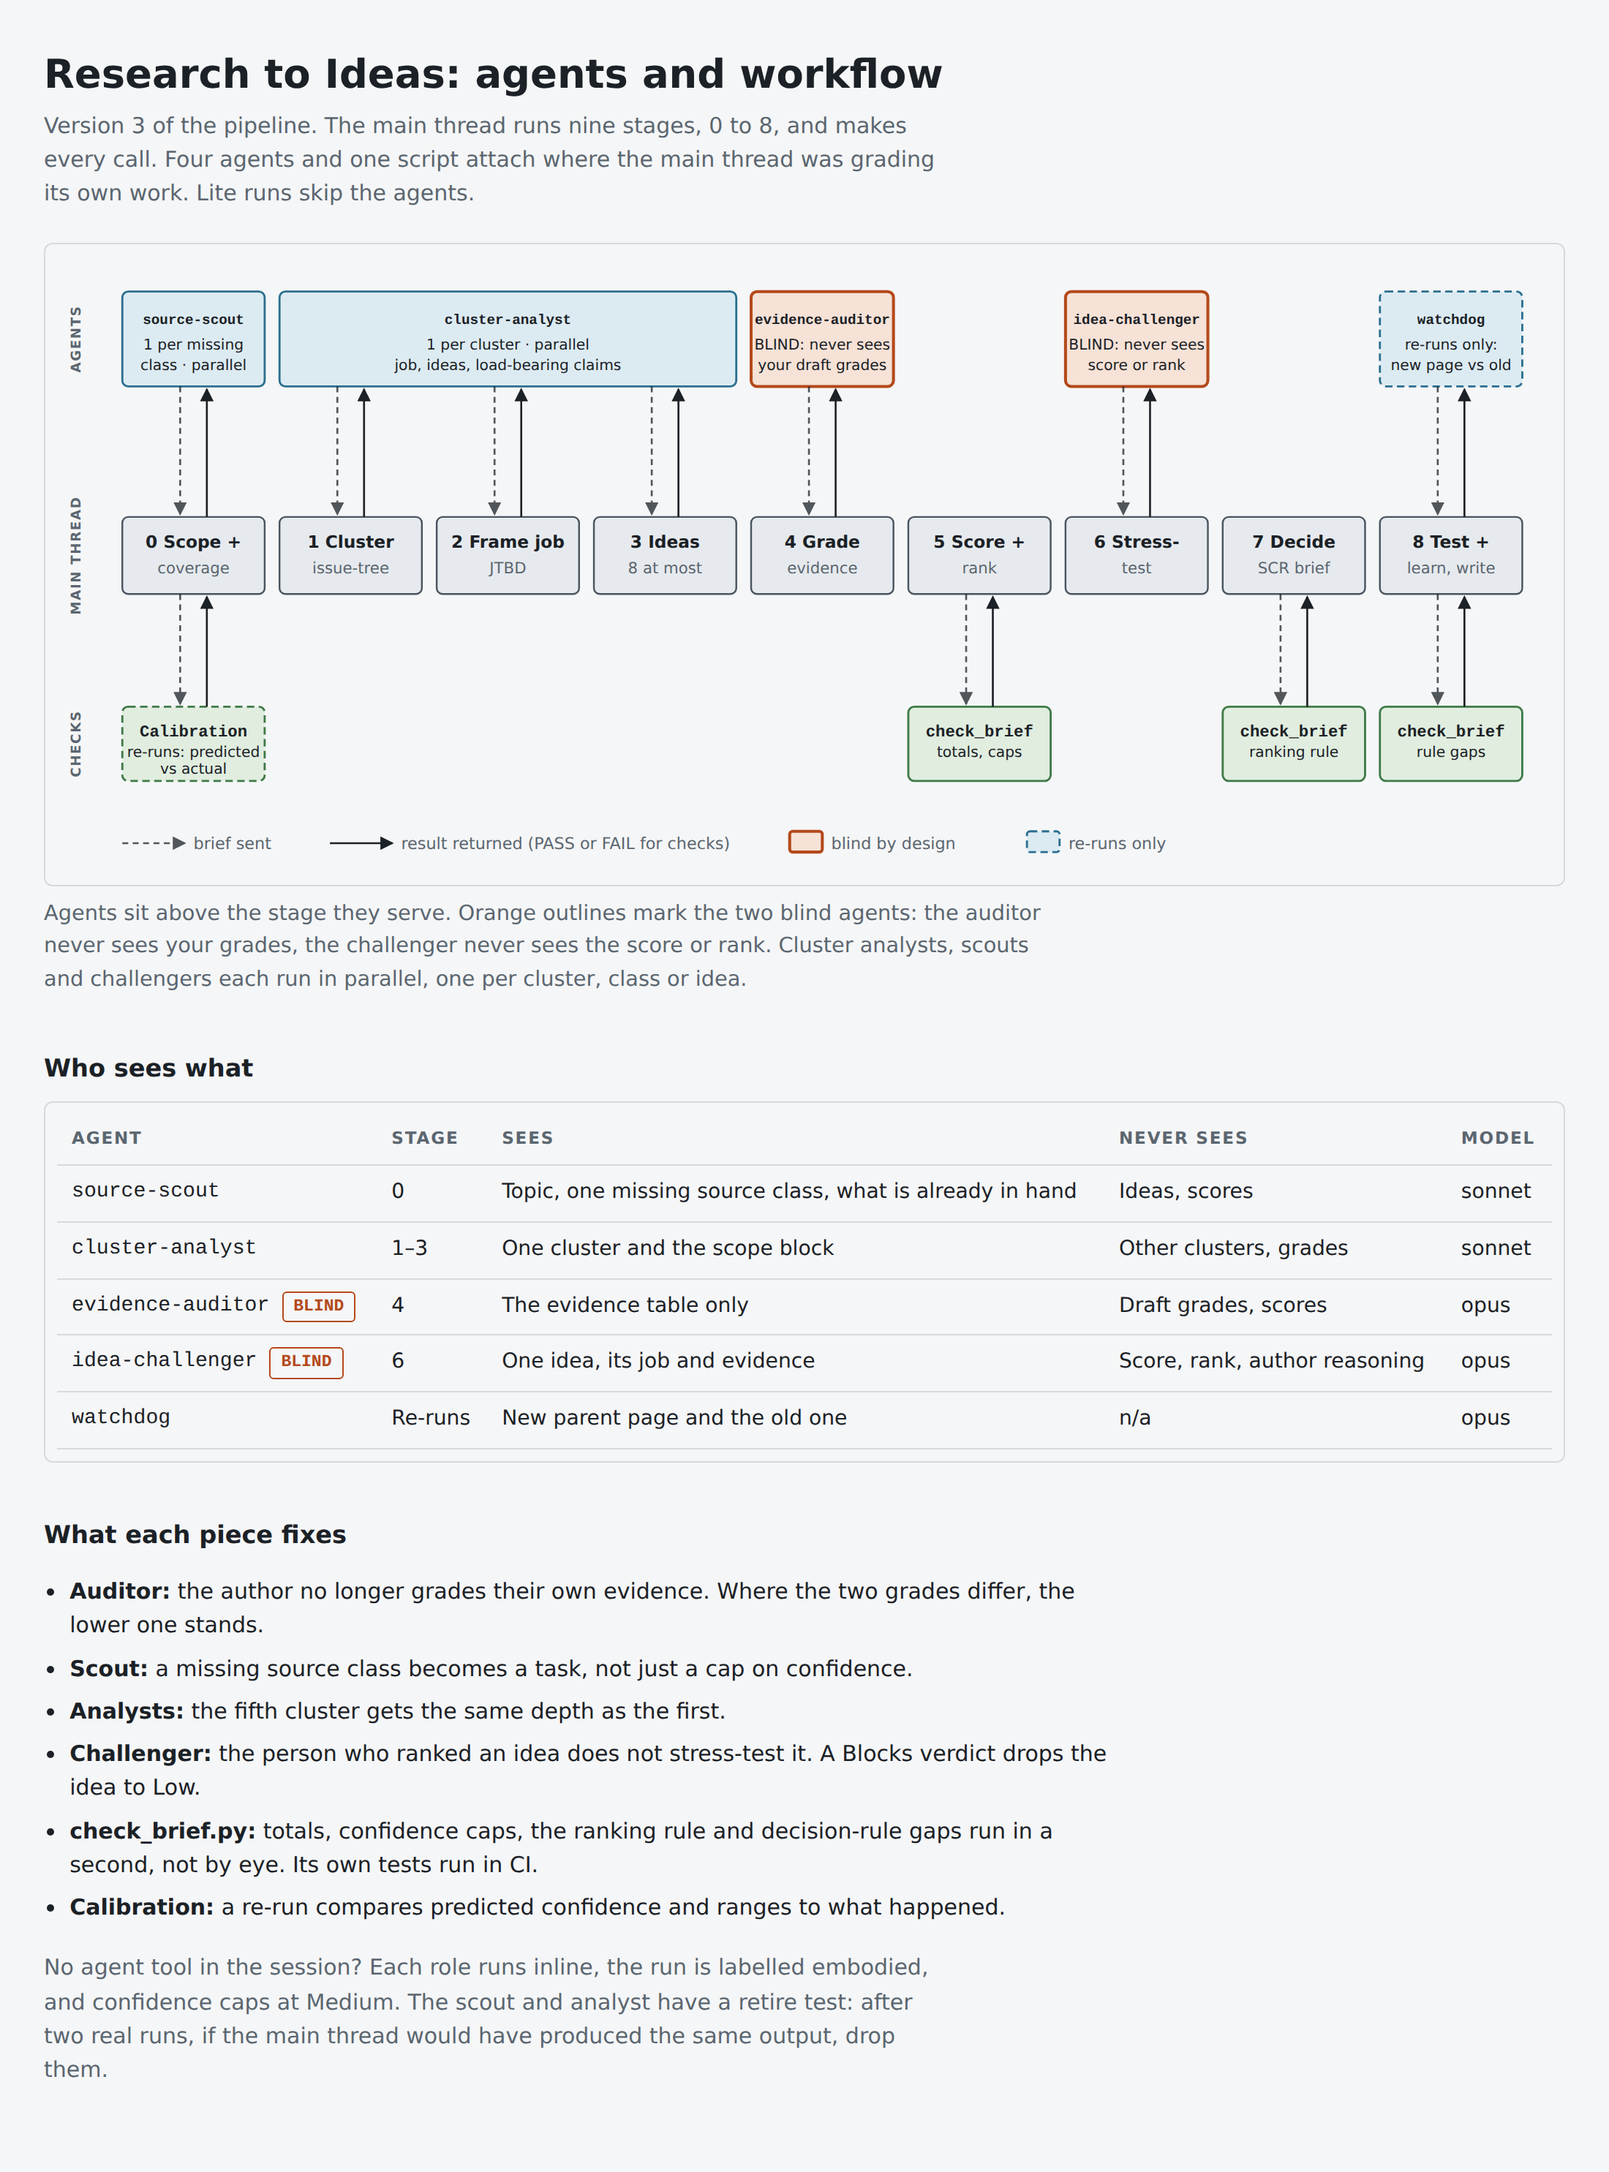
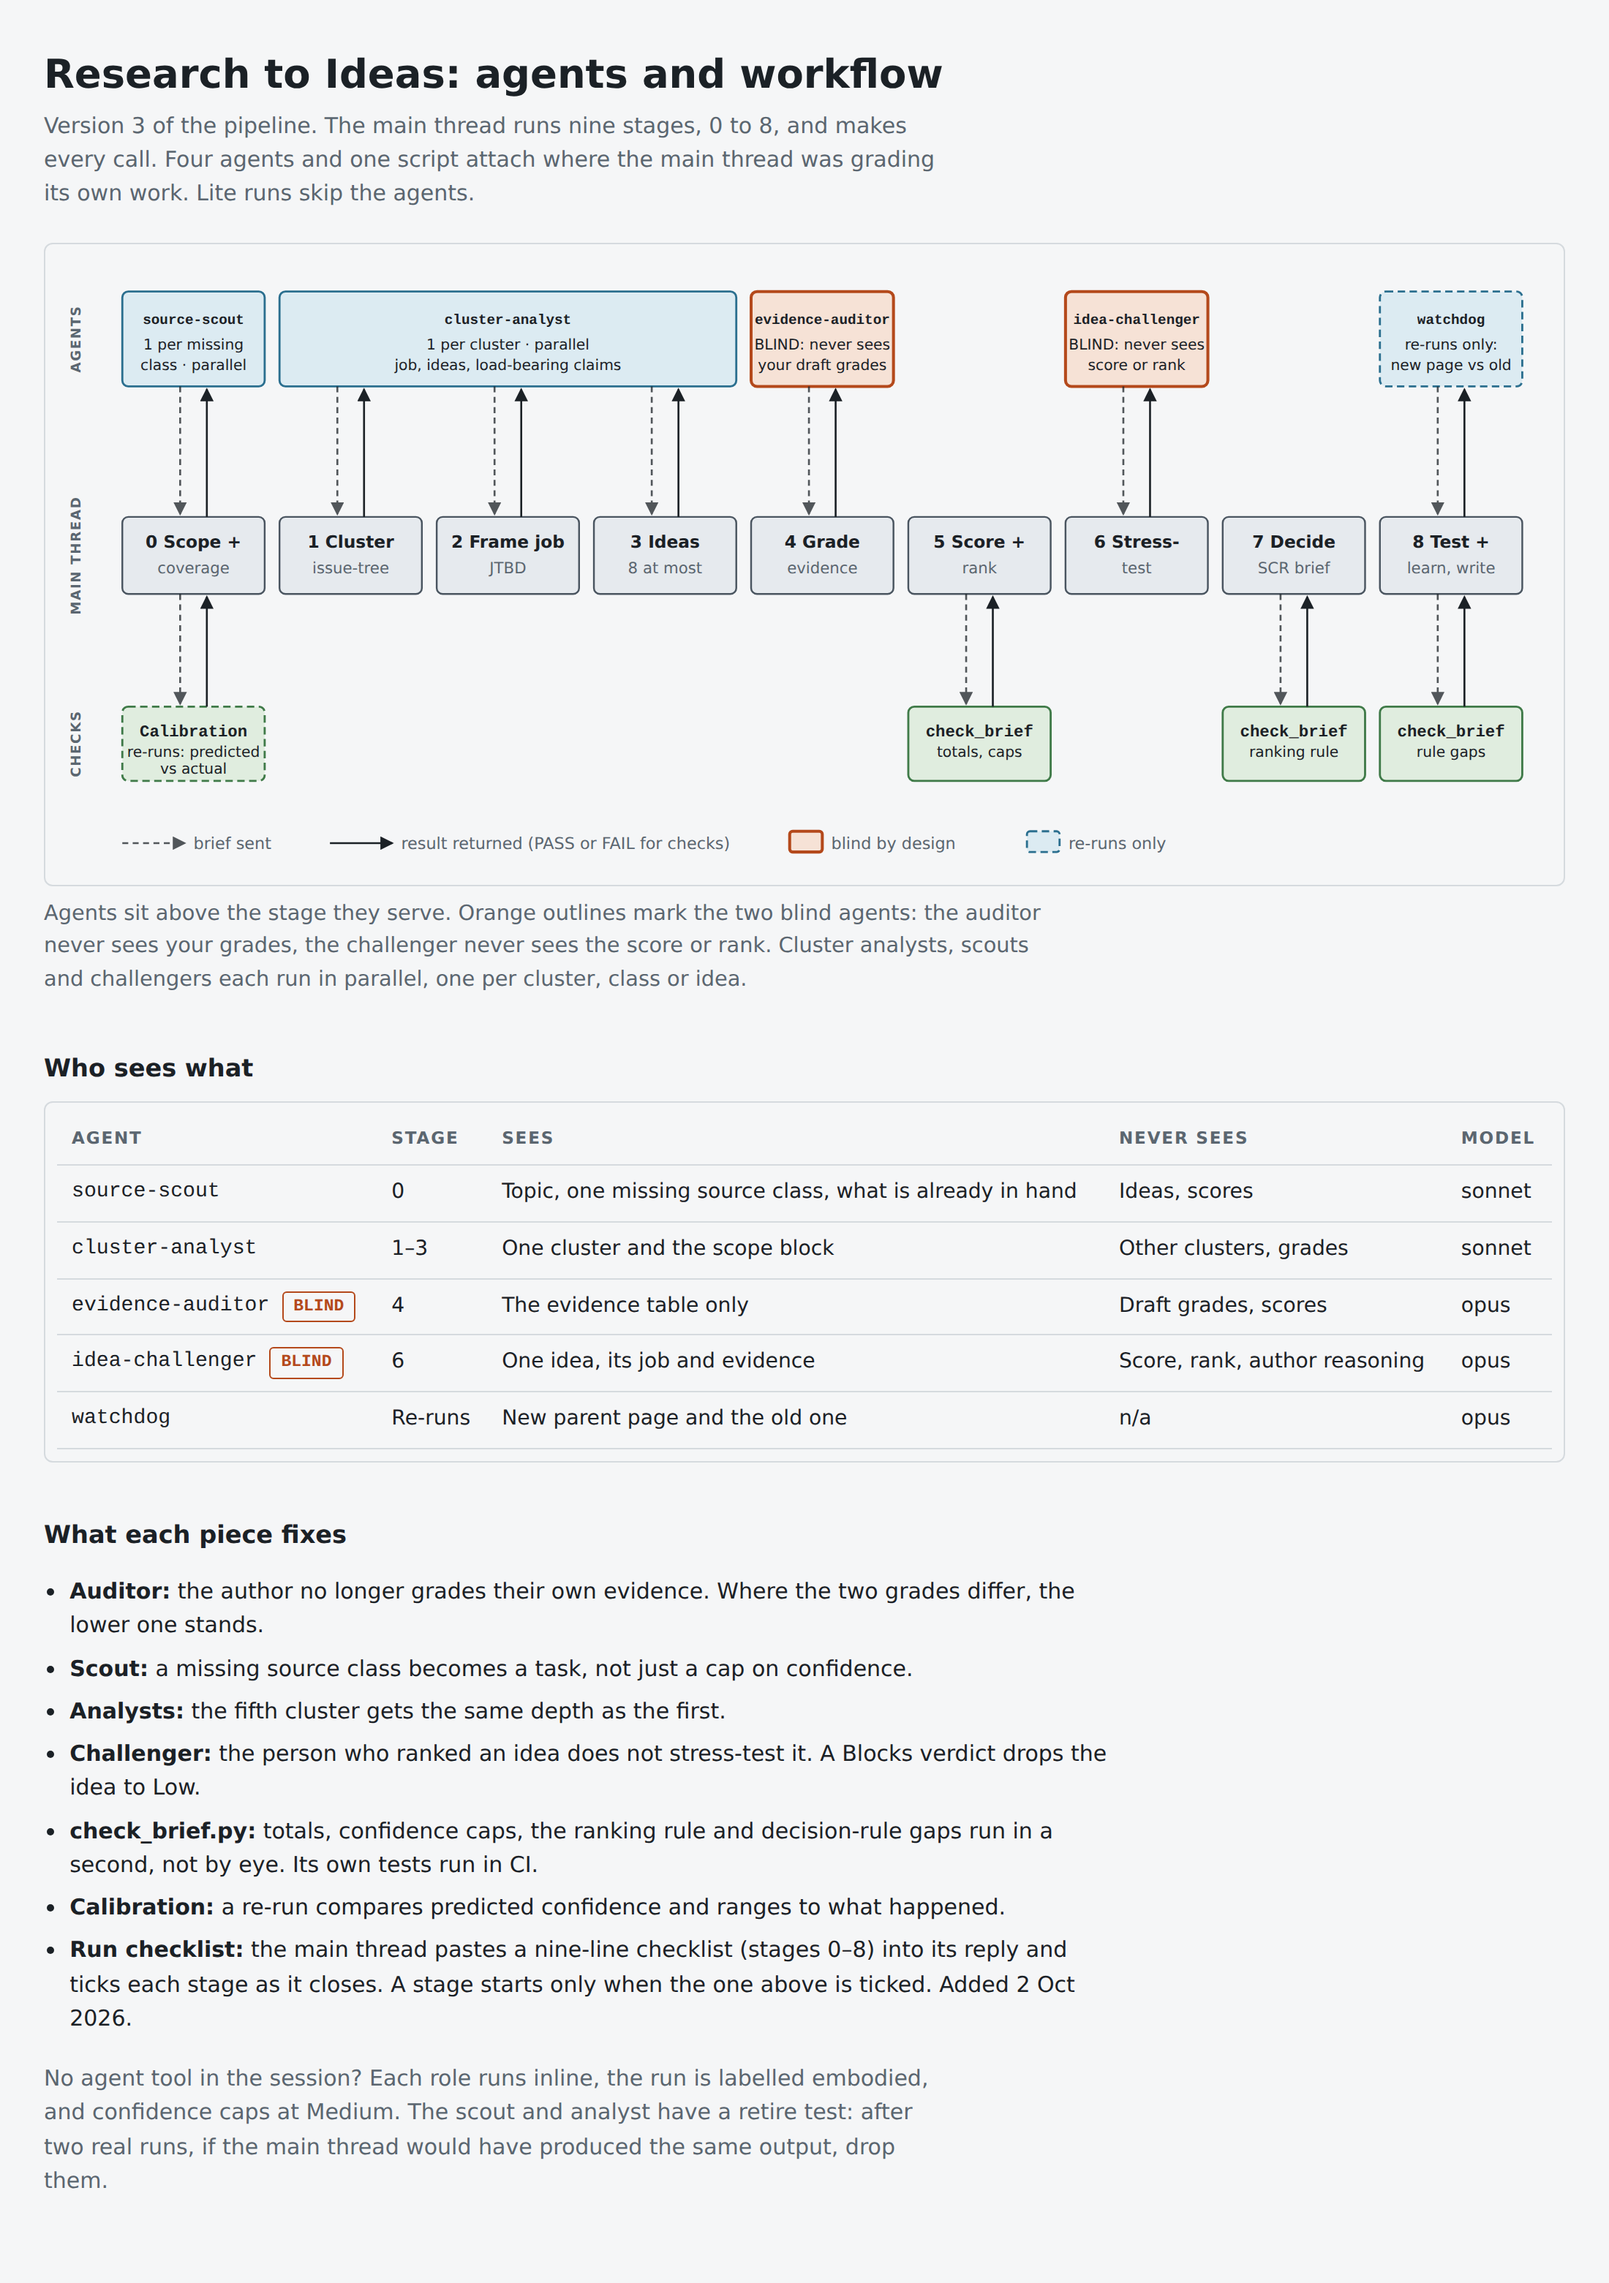
Update workflow maps for the 2026-10-02 skills changes
research-to-ideas and multi-actor-strategy maps note the new run
checklists; dispatch map v8 gains a "Since v8" section (no agent
changed, checklists, the new skill-structure CI check). PNGs
re-rendered from the HTML sources at the same 2200px width.

Claude-Session: https://claude.ai/code/session_01B9ZofTBrmeVrLAfLQj5Crw

diff --git a/dispatch-map-v8.html b/dispatch-map-v8.html
@@ -103,6 +103,12 @@ td.nw{white-space:nowrap}
 <li><strong>The spec goes on disk before the build.</strong> <code>mc-orchestrator</code> Stage 2 waits for it, and the reviewer and verifier briefs carry its path.</li>
 <li><strong>Counts:</strong> 21 agents, 15 opus and 6 sonnet. <code>multi-actor-strategy</code> moved from the skills row to its own lane.</li>
 </ul>
+<h2>Since v8 (2026-10-02)</h2>
+<ul>
+<li><strong>No agent changed.</strong> The map above still holds.</li>
+<li><strong>The two conducting skills tick a checklist.</strong> <code>research-to-ideas</code> (stages 0–8) and <code>multi-actor-strategy</code> (stages 1–4) open each run by pasting it, and a stage starts only when the one above is ticked.</li>
+<li><strong>A third library check in CI.</strong> <code>scripts/check-skill-structure.sh</code>: contents lists on long reference files, references one level deep, and a <code>Requires:</code> line for every skill script.</li>
+</ul>
 <p class="lede" style="margin-top:18px">The long-form v7 page (<code>dispatch-map-v7.html</code>) keeps the full routing tables and the library's history. This page is the one-page view.</p>
 </main>
 </body>

diff --git a/multi-actor-strategy-map.html b/multi-actor-strategy-map.html
@@ -69,6 +69,7 @@ td.st,td.nw{white-space:nowrap}
 <li><strong>Bets:</strong> jurors bet blind, so the bets can disagree. The baseline's three bets came from one mind and none disagreed.</li>
 <li><strong>Pre-mortem:</strong> built only if the re-run shows the risk step was the weakest. First check whether widening <code>idea-challenger</code> covers it.</li>
 <li><strong>.claude/skills/multi-actor-strategy/scripts/check_strategy.py:</strong> three or more options with sustain included, every option challenged, every eliminated option given a reason, a pre-mortem for every survivor, bets recorded, the pick gap answered, no Assumed rationale at Stage 4, and no "blind" claim on an embodied run. Each rule has a decoy that must fail in CI.</li>
+<li><strong>Stage checklist:</strong> a full run opens by pasting a four-line checklist, one line per stage and its handoff condition, and ticks each when the Stage Register is written. Added 2 Oct 2026.</li>
 </ul>
 
 <h2>Run 1 results</h2>

diff --git a/research-to-ideas-map.html b/research-to-ideas-map.html
@@ -69,6 +69,7 @@ li{margin-bottom:6px}
 <li><strong>Challenger:</strong> the person who ranked an idea does not stress-test it. A Blocks verdict drops the idea to Low.</li>
 <li><strong>check_brief.py:</strong> totals, confidence caps, the ranking rule and decision-rule gaps run in a second, not by eye. Its own tests run in CI.</li>
 <li><strong>Calibration:</strong> a re-run compares predicted confidence and ranges to what happened.</li>
+<li><strong>Run checklist:</strong> the main thread pastes a nine-line checklist (stages 0–8) into its reply and ticks each stage as it closes. A stage starts only when the one above is ticked. Added 2 Oct 2026.</li>
 </ul>
 <p class="lede" style="margin-top:18px">No agent tool in the session? Each role runs inline, the run is labelled embodied, and confidence caps at Medium. The scout and analyst have a retire test: after two real runs, if the main thread would have produced the same output, drop them.</p>
 </main>
